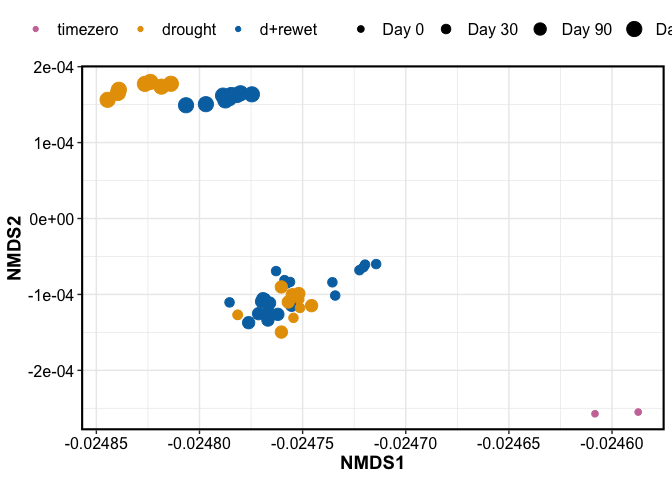
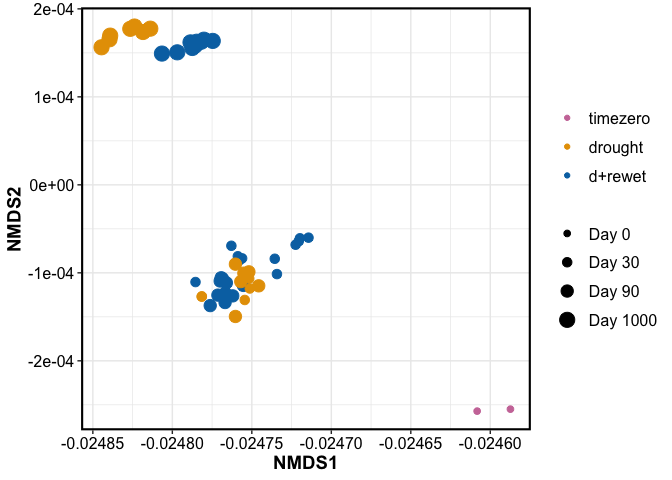
FTICR - combine NMDS and bar plots

diff --git a/3-reports/chemistry_report_NEW.md b/3-reports/chemistry_report_NEW.md
@@ -14,7 +14,7 @@ chemistry_report_NEW
 | depth      |   1 | 0.0506674 | 0.1149601 |  88.057141 |   0.001 |
 | length     |   2 | 0.2056311 | 0.4665603 | 178.687892 |   0.001 |
 | saturation |   1 | 0.1540093 | 0.3494347 | 267.659890 |   0.001 |
-| drying     |   1 | 0.0018533 | 0.0042049 |   3.220881 |   0.063 |
+| drying     |   1 | 0.0018533 | 0.0042049 |   3.220881 |   0.066 |
 | Residual   |  89 | 0.0512099 | 0.1161911 |         NA |      NA |
 | Total      |  94 | 0.4407384 | 1.0000000 |         NA |      NA |
 
@@ -24,7 +24,7 @@ chemistry_report_NEW
 |:-----------|----:|----------:|----------:|------------:|--------:|
 | length     |   2 | 0.1219450 | 0.7254832 | 189.9259569 |   0.001 |
 | saturation |   1 | 0.0420732 | 0.2503049 | 131.0558189 |   0.001 |
-| drying     |   1 | 0.0000653 | 0.0003882 |   0.2032546 |   0.651 |
+| drying     |   1 | 0.0000653 | 0.0003882 |   0.2032546 |   0.645 |
 | Residual   |  43 | 0.0138044 | 0.0821262 |          NA |      NA |
 | Total      |  47 | 0.1680880 | 1.0000000 |          NA |      NA |
 
@@ -60,15 +60,13 @@ FTICR NMDS plots:
 
     ## [1] "color by saturation - top"
 
-![](chemistry_report_NEW_files/figure-gfm/icr_NMDS_plot-2.png)<!-- -->
-
     ## [1] "color by saturation - bottom"
 
-![](chemistry_report_NEW_files/figure-gfm/icr_NMDS_plot-3.png)<!-- -->
+![](chemistry_report_NEW_files/figure-gfm/icr_NMDS_plot-2.png)<!-- -->![](chemistry_report_NEW_files/figure-gfm/icr_NMDS_plot-3.png)<!-- -->
 
 ### Relative abundance
 
-![](chemistry_report_NEW_files/figure-gfm/icr_relabund_trt-1.png)<!-- -->
+![](chemistry_report_NEW_files/figure-gfm/icr_combined-1.png)<!-- -->
 
 <details>
 <summary>
